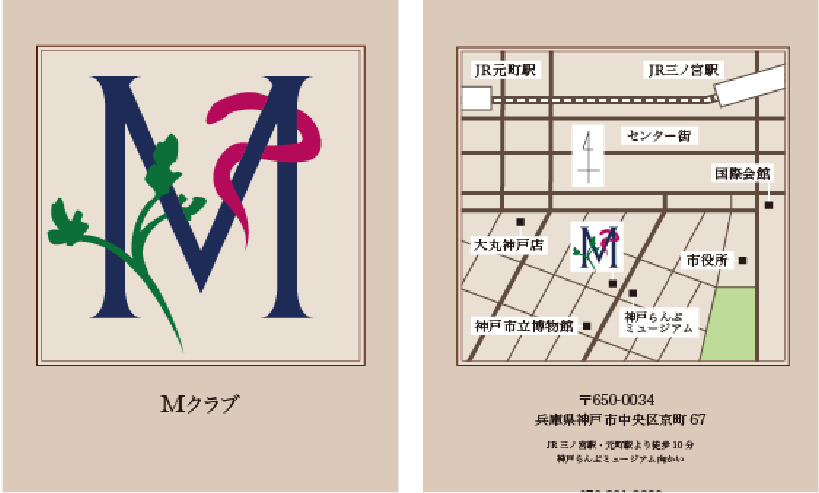
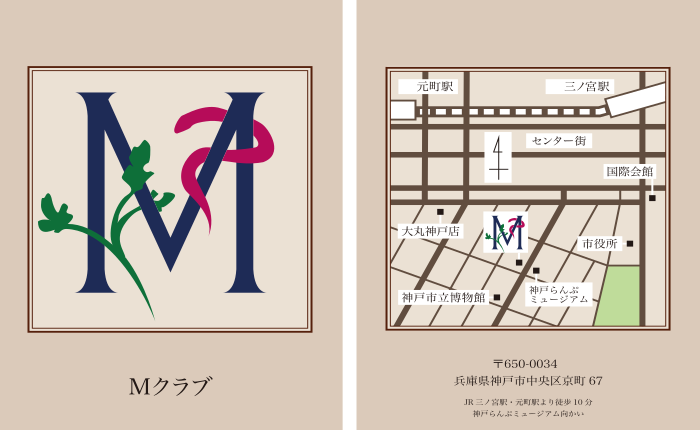
サムネイル画像修正・コンテンツ幅修正

diff --git a/css/style.css b/css/style.css
@@ -252,18 +252,8 @@ svg {
   left: 10%;
 }
 
-/* @media screen and (min-with: 900px) {
-  .thumbnailArea {
-    display: flex;
-  }
-
-  .thumbnailItem {
-    width: 50%;
-  }
-} */
-
 .contentsArea {
-  width: 100%;
+  width: 90%;
   padding: 40px 0;
 }
 
@@ -286,6 +276,8 @@ svg {
   border-bottom: none;
   display: flex;
   justify-content: center;
+  width: 80%;
+  margin: 0 auto;
 }
 
 .thumbnailItem:nth-child(3) {
@@ -299,14 +291,14 @@ svg {
 
 .thumbnailImage {
   border: dotted #666666 1px;
-  width: 80%;
+  width: 70%;
   margin: 0 auto;
   margin-bottom: 20px;
 }
 
 .thumbnailText {
   border-left: solid #666666 2px;
-  width: 80%;
+  width: 70%;
   padding: 0 10px;
   margin: 0 auto;
 }
@@ -325,14 +317,14 @@ svg {
 .modal-overlay {
   background-color: rgba(0, 0, 0, 0.2);
   display: none;
+  width: 100vw;
+  height: 100vh;
   position: fixed;
-  inset: 0; /* 上下左右すべて「0」位置 */
-  z-index: 900;
+  inset: 0;
+  /* 上下左右すべて「0」位置 */
+  z-index: 9999;
   justify-content: center;
   align-items: center;
-
-  width: 100%;
-  height: 100%;
 }
 
 .modalBox {
